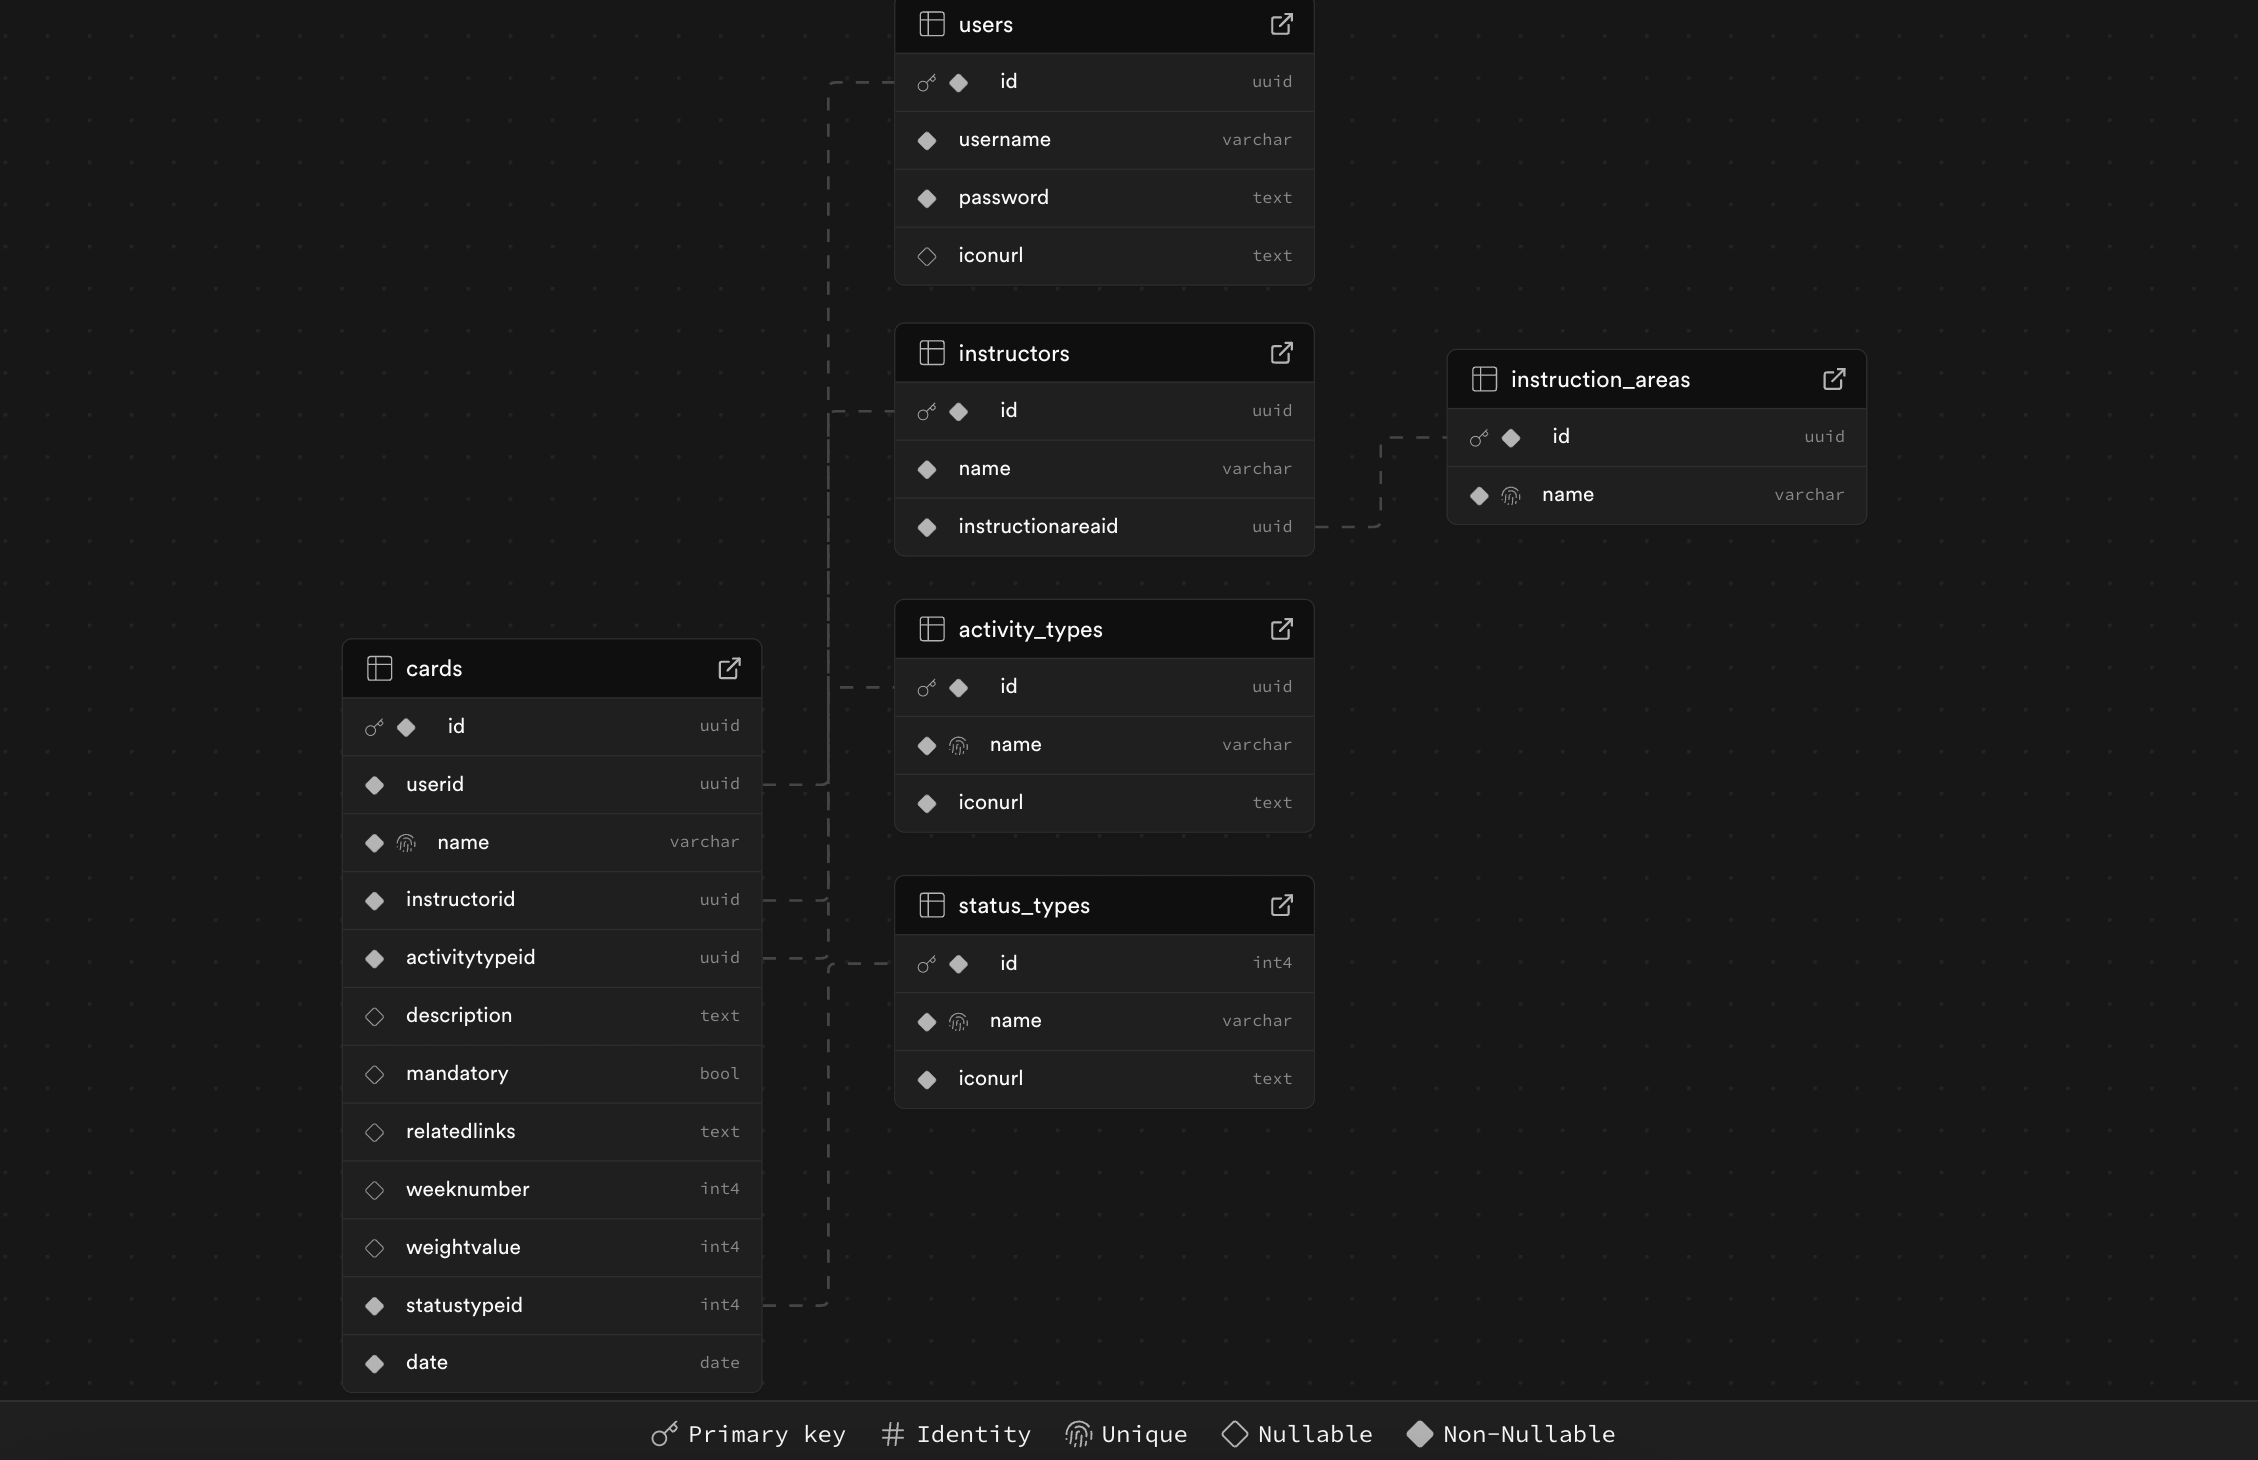
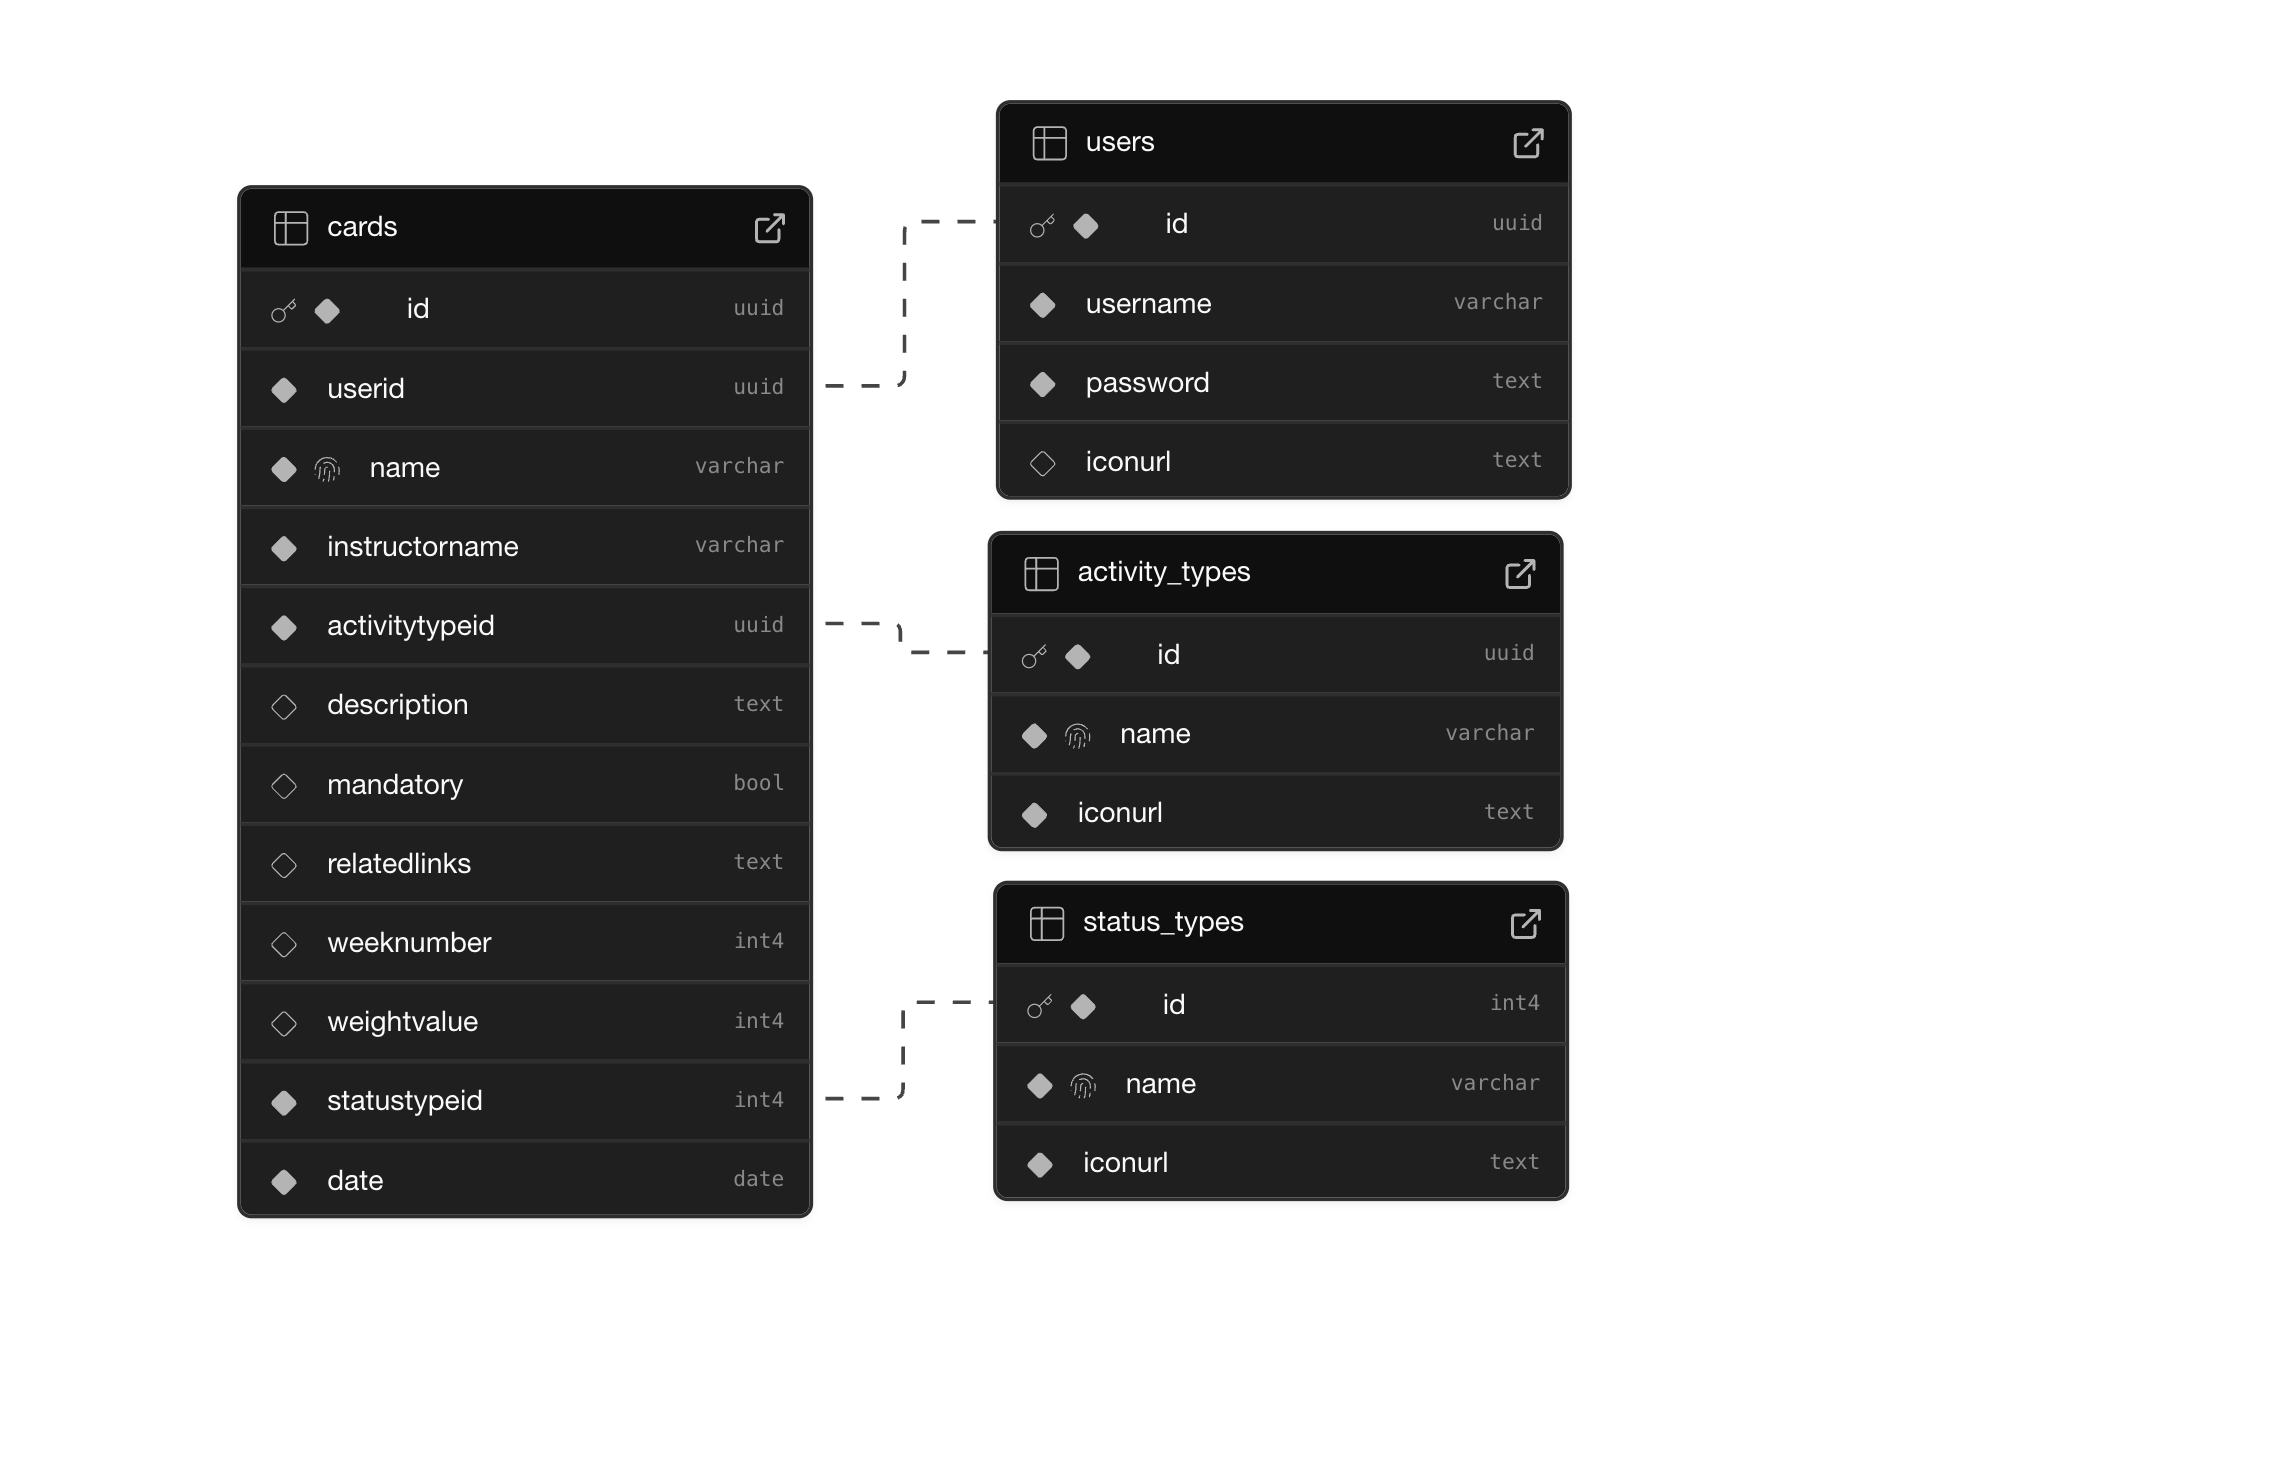
docs: updating w/ new changes in database structure

diff --git a/readme.md b/readme.md
@@ -50,10 +50,11 @@ Isso criará todas as tabelas necessárias no seu banco de dados PostgreSQL conf
 Funcionalidades
 ---------------
 
-* Gerenciamento de Cartões: Criação, visualização, edição e exclusão de cartões de atividades
-* Organização por Categorias: Classificação de atividades por tipo, status e área de instrução
-* Perfil de Usuário: Gerenciamento de informações pessoais e preferências
-* Interface Intuitiva: Design responsivo e amigável para melhor experiência do usuário
+* **Gerenciamento de Cartões:** Criação, visualização, edição e exclusão de cartões de atividades
+* **Organização por Categorias:** Classificação de atividades por tipo, status e área de instrução
+* **Perfil de Usuário:** Gerenciamento de informações pessoais e preferências
+* **Interface Intuitiva:** Design responsivo e amigável para melhor experiência do usuário
+* **Integração com IA:** Estipular tempo para fazer cada autoestudo e criar um planning para a semana, que permite o aluno personalizar o planejamento dado o estilo de estudo dele.
 
 Scripts Disponíveis
 -------------------
@@ -85,8 +86,6 @@ O banco de dados utiliza o PostgreSQL e possui as seguintes entidades principais
 
 * **Users**: Armazena logins e informações dos usuários
 * **Cards**: Armazena os cartões de atividades da adalove
-* **Instructors**: Armazena informações sobre os instrutores
-* **Instruction Areas**: Áreas de instrução/conhecimento
 * **Activity Types**: Tipos de atividades
 * **Status Types**: Status possíveis para os cartões
 

diff --git a/documentos/wad.md b/documentos/wad.md
@@ -67,16 +67,12 @@ Deixei também o modelo do banco de dados no formato **DBML** disponível no arq
 
 - **Users**: Armazena logins e informações dos usuários
 - **Cards**: Armazena os cartões de atividades da adalove
-- **Instructors**: Armazena informações sobre os instrutores
-- **Instruction Areas**: Áreas de instrução/conhecimento
 - **Activity Types**: Tipos de atividades (Auto Estudo / Avaliação e Pesquisa / Desenvolvimento de Projetos / Outros)
 - **Status Types**: Status possíveis para os cartões (A Fazer / Fazendo / Feito)
 
 ##### Relações
 
 - Um usuário pode ter vários cartões
-- Um instrutor pode ter vários cartões
-- Cada instrutor pertence a uma área de instrução
 - Cada cartão tem um tipo de atividade
 - Cada cartão tem um status
 
